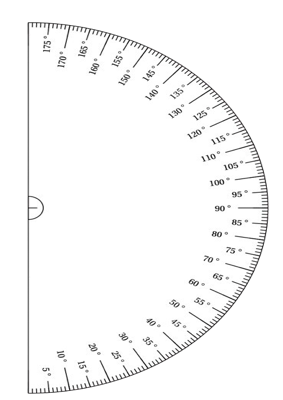
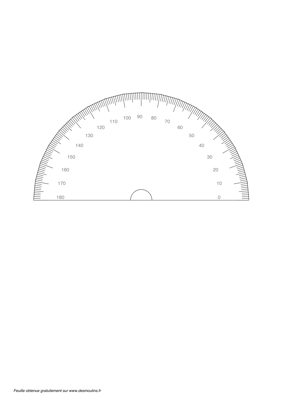
Musique en PDF et selecteur de papiers plus visible.
Quadrille, marge, millimetre et musique depuis PDF. Vignettes directes et liste deroulante a la creation de cahier.

diff --git a/frontend/src/lib/pageTemplates.js b/frontend/src/lib/pageTemplates.js
@@ -2,6 +2,8 @@ import { getTemplateImageUrl, PAGE_W, PAGE_H } from './pageDimensions';
 
 export const normalizeTemplateId = (templateId) => {
   if (templateId === 'calligraphy' || templateId === 'music-large') return 'music';
+  // Ancien quadrillé CSS → image PDF
+  if (templateId === 'grid-css') return 'grid';
   return templateId;
 };
 
@@ -15,7 +17,6 @@ export const getPaperClass = (templateId) => {
   const map = {
     lined: 'paper-lined',
     dotted: 'paper-dotted',
-    music: 'paper-music',
   };
   return map[id] || '';
 };
@@ -31,12 +32,6 @@ export const getPaperZoomStyle = (templateId, zoom = 1) => {
   }
   if (id === 'lined') {
     return { backgroundSize: `100% ${32 * z}px` };
-  }
-  if (id === 'music') {
-    return {
-      backgroundSize: `100% ${88 * z}px`,
-      backgroundPosition: `0 ${48 * z}px`,
-    };
   }
   return undefined;
 };
@@ -93,17 +88,6 @@ export const drawTemplateBackground = (ctx, templateId, destW, destH) => {
         ctx.arc(x * sx, y * sy, 1.2 * sx, 0, Math.PI * 2);
         ctx.fill();
       }
-    }
-    return 'css';
-  }
-  if (id === 'music') {
-    const staffGap = 88;
-    const lineStep = 9;
-    const staffLines = [0, lineStep, lineStep * 2, lineStep * 3, lineStep * 4];
-    for (let staffTop = 48; staffTop < PAGE_H - 60; staffTop += staffGap) {
-      staffLines.forEach((offset) =>
-        line('rgba(15,23,42,0.55)', staffTop + offset, staffTop + offset + 1)
-      );
     }
     return 'css';
   }

diff --git a/frontend/src/components/PageTemplatePreview.jsx b/frontend/src/components/PageTemplatePreview.jsx
@@ -1,15 +1,24 @@
 import React, { useState, useEffect } from 'react';
 import { renderTemplatePreviewDataUrl } from '../lib/templatePreview';
 import { normalizeTemplateId } from '../lib/pageTemplates';
+import { getTemplateThumbUrl } from '../lib/pageDimensions';
 
-/** Miniature = photo pleine page redimensionnée (même rendu que la feuille) */
+/** Miniature = vignette PNG (PDF) ou rendu canvas pour modèles CSS */
 const PageTemplatePreview = ({ template, selected, onClick, size = 'md' }) => {
   const isSm = size === 'sm';
   const [previewUrl, setPreviewUrl] = useState(null);
 
   useEffect(() => {
     let cancelled = false;
-    renderTemplatePreviewDataUrl(normalizeTemplateId(template.id)).then((url) => {
+    const id = normalizeTemplateId(template.id);
+    const staticThumb = getTemplateThumbUrl(id);
+    if (staticThumb) {
+      setPreviewUrl(staticThumb);
+      return () => {
+        cancelled = true;
+      };
+    }
+    renderTemplatePreviewDataUrl(id).then((url) => {
       if (!cancelled) setPreviewUrl(url);
     });
     return () => {
@@ -48,7 +57,7 @@ const PageTemplatePreview = ({ template, selected, onClick, size = 'md' }) => {
         )}
       </div>
       <span
-        className={`font-medium text-slate-700 dark:text-slate-300 ${
+        className={`font-medium text-slate-700 dark:text-slate-300 text-center leading-tight ${
           isSm ? 'text-[10px]' : 'text-xs'
         }`}
       >

diff --git a/frontend/src/lib/drawPage.js b/frontend/src/lib/drawPage.js
@@ -21,7 +21,14 @@ const loadBgImage = (src) => {
 const seyesLoad = loadBgImage(getTemplateImageUrl('seyes'));
 
 export const preloadTemplateImages = () => {
-  Object.keys({ seyes: 1, grid: 1, 'grid-margin': 1, millimeter: 1, protractor: 1 }).forEach((id) => {
+  Object.keys({
+    seyes: 1,
+    grid: 1,
+    'grid-margin': 1,
+    millimeter: 1,
+    music: 1,
+    protractor: 1,
+  }).forEach((id) => {
     const src = getTemplateImageUrl(id);
     if (src && !preloaded.has(src)) loadBgImage(src);
   });

diff --git a/frontend/src/mock/mock.js b/frontend/src/mock/mock.js
@@ -17,14 +17,14 @@ export const FOLDER_COLORS = [
 
 export const PAGE_TEMPLATES = [
   { id: 'seyes', name: 'Seyès' },
-  { id: 'blank', name: 'Vierge' },
-  { id: 'lined', name: 'Ligné' },
   { id: 'grid', name: 'Quadrillé' },
-  { id: 'grid-margin', name: 'Quadrillé (marge)' },
+  { id: 'grid-margin', name: 'Quadrillé + marge' },
   { id: 'millimeter', name: 'Millimétré' },
-  { id: 'dotted', name: 'Pointillé' },
   { id: 'music', name: 'Musique' },
   { id: 'protractor', name: 'Rapporteur' },
+  { id: 'lined', name: 'Ligné' },
+  { id: 'dotted', name: 'Pointillé' },
+  { id: 'blank', name: 'Vierge' },
 ];
 
 const makePage = (template = 'seyes') => ({

diff --git a/frontend/src/pages/NotebookEditor.jsx b/frontend/src/pages/NotebookEditor.jsx
@@ -473,7 +473,7 @@ const NotebookEditor = () => {
                 {addPageMode === 'end' && 'Ajouter à la fin du cahier'}
               </p>
               <p className="text-xs font-medium text-slate-500 mb-2">Modèle vierge</p>
-              <div className="grid grid-cols-3 gap-2">
+              <div className="grid grid-cols-3 gap-2 max-h-64 overflow-y-auto thin-scroll pr-1">
                 {PAGE_TEMPLATES.map((t) => (
                   <PageTemplatePreview
                     key={t.id}
@@ -548,7 +548,7 @@ const NotebookEditor = () => {
                 </PopoverTrigger>
                 <PopoverContent align="end" className="w-72">
                   <p className="text-xs font-medium text-slate-500 mb-3">Style pour tout le cahier</p>
-                  <div className="grid grid-cols-3 gap-2">
+                  <div className="grid grid-cols-3 gap-2 max-h-64 overflow-y-auto thin-scroll pr-1">
                     {PAGE_TEMPLATES.map((t) => (
                       <PageTemplatePreview
                         key={t.id}
@@ -611,7 +611,7 @@ const NotebookEditor = () => {
                       </PopoverTrigger>
                       <PopoverContent align="end" className="w-72" onClick={(e) => e.stopPropagation()}>
                         <p className="text-xs font-medium text-slate-500 mb-3">Style de la page {idx + 1}</p>
-                        <div className="grid grid-cols-3 gap-2">
+                        <div className="grid grid-cols-3 gap-2 max-h-64 overflow-y-auto thin-scroll pr-1">
                           {PAGE_TEMPLATES.map((t) => (
                             <PageTemplatePreview
                               key={t.id}

diff --git a/frontend/src/pages/Library.jsx b/frontend/src/pages/Library.jsx
@@ -907,7 +907,10 @@ const Library = () => {
                   </div>
                   <div className="space-y-2">
                     <Label>Modèle de page</Label>
-                    <div className="grid grid-cols-3 sm:grid-cols-6 gap-2">
+                    <p className="text-xs text-slate-500">
+                      Seyès, quadrillé, millimétré, musique, rapporteur…
+                    </p>
+                    <div className="grid grid-cols-3 sm:grid-cols-4 gap-2 max-h-[min(50vh,340px)] overflow-y-auto thin-scroll pr-1">
                       {PAGE_TEMPLATES.map((t) => (
                         <PageTemplatePreview
                           key={t.id}

diff --git a/frontend/src/lib/pageDimensions.js b/frontend/src/lib/pageDimensions.js
@@ -17,6 +17,7 @@ export const TEMPLATE_IMAGE_FILES = {
   grid: 'grid',
   'grid-margin': 'grid-margin',
   millimeter: 'millimeter',
+  music: 'music',
   protractor: 'protractor',
 };
 